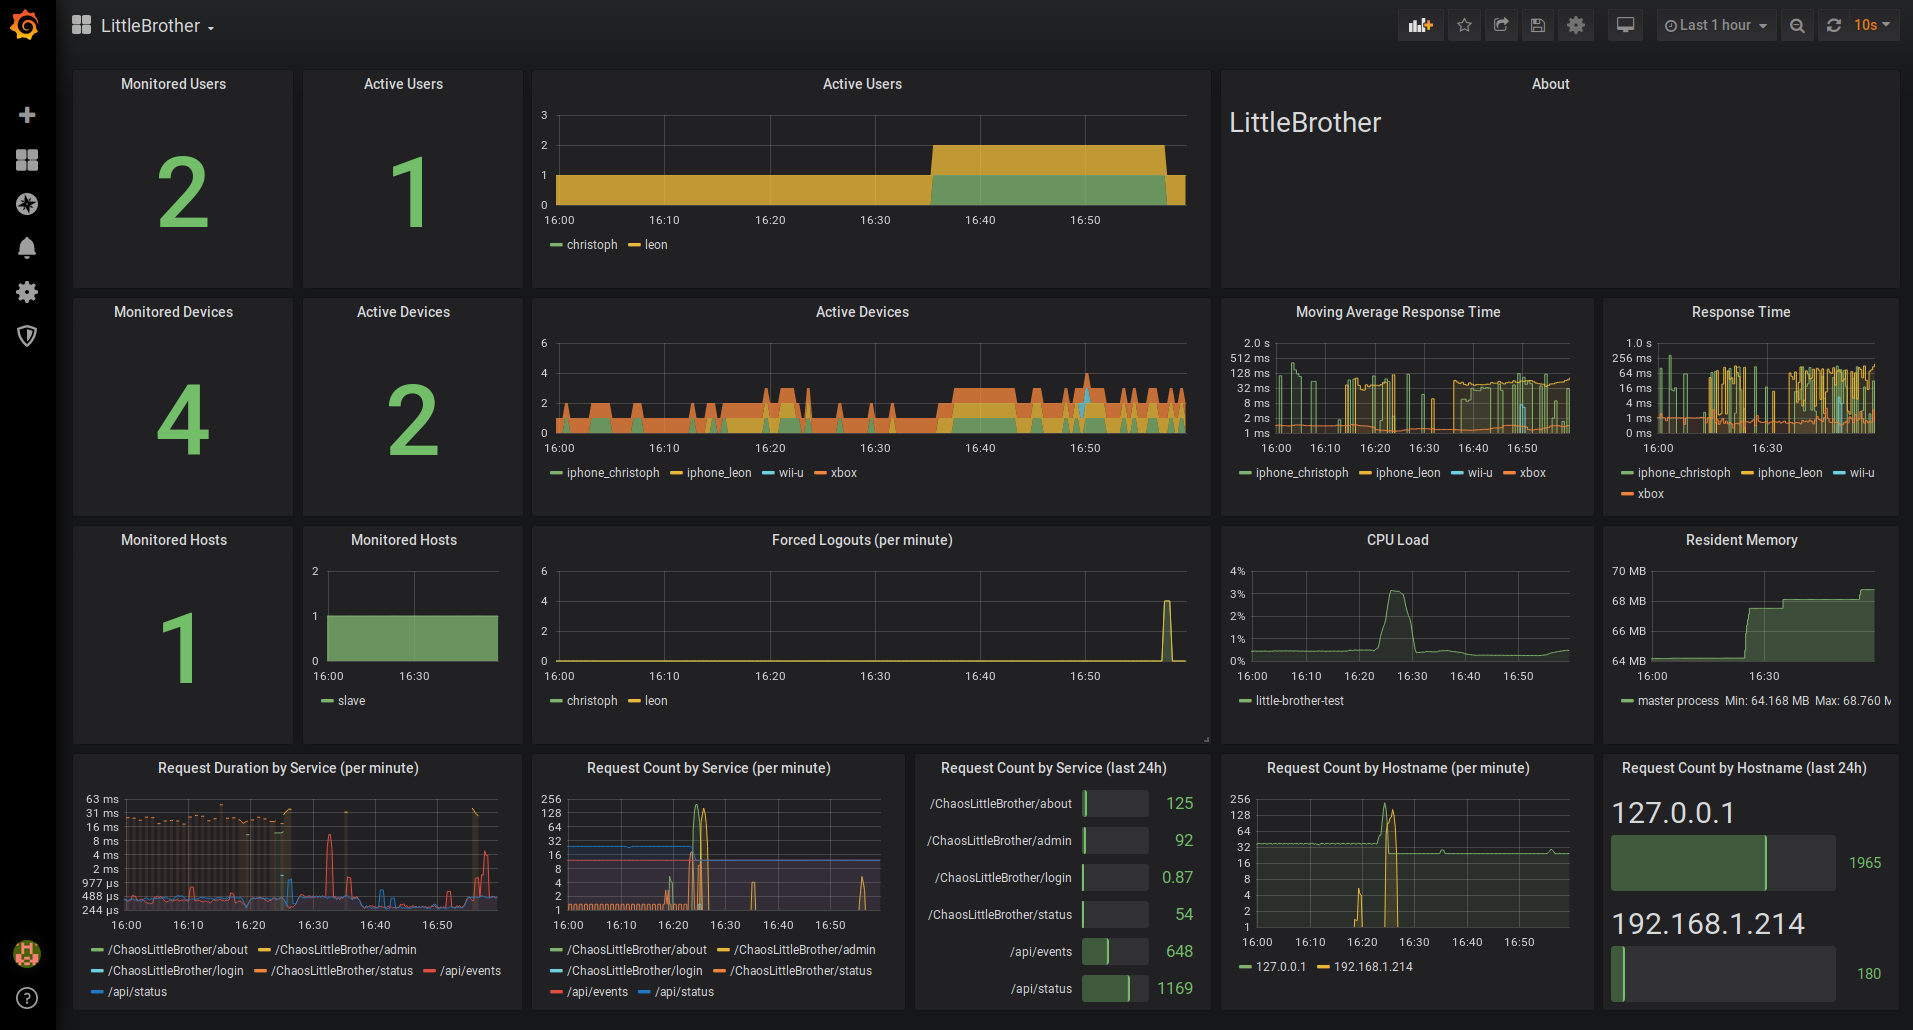
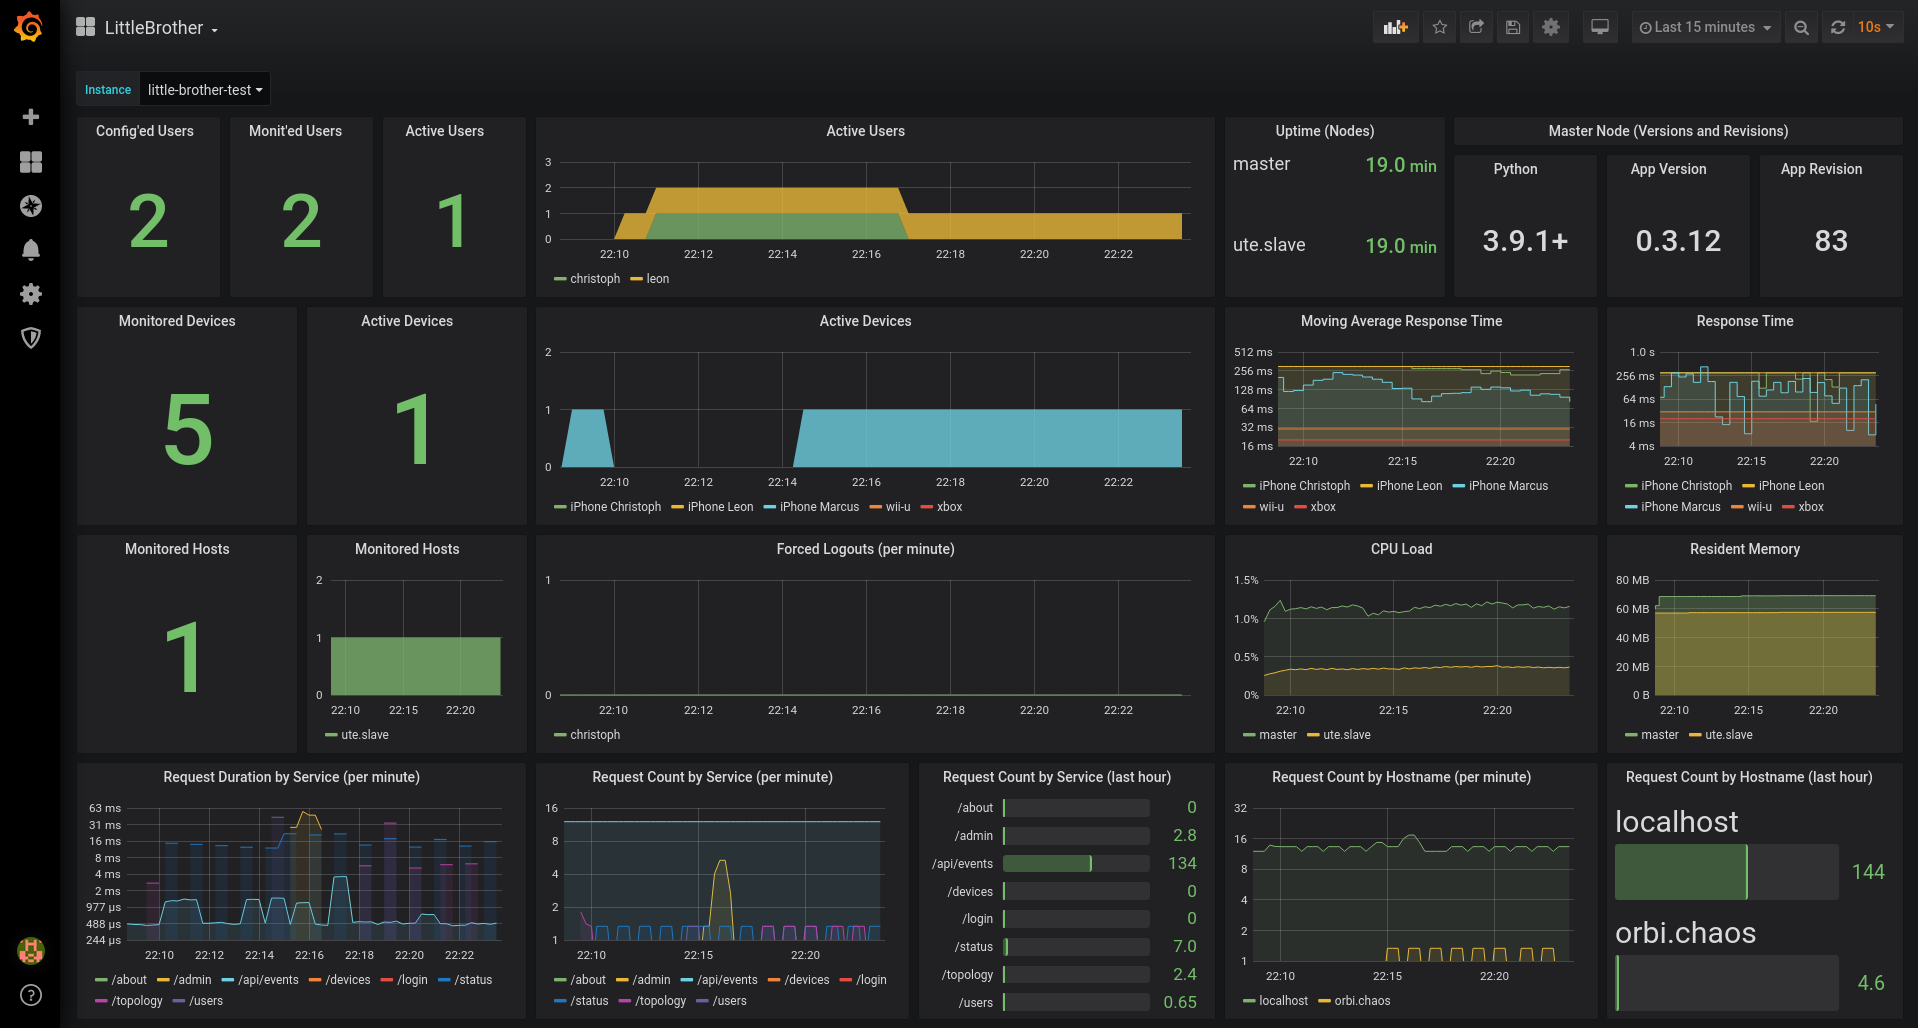
*   Updated Grafana dashboard

diff --git a/CHANGES.md b/CHANGES.md
@@ -17,6 +17,7 @@ This document lists all changes of `LittleBrother` with the most recent changes 
 *   Accepts [pull request regarding Italian localization](https://github.com/marcus67/little_brother/pull/121)
 *   Accepts [pull request regarding French localization](https://github.com/marcus67/little_brother/pull/122)
 *   Add option to activate/deactivate the scanning of complete command lines
+*   Updated Grafana dashboard
 
 ## Version 0.3.11 Revision 82 (February 6th, 2021)
 
